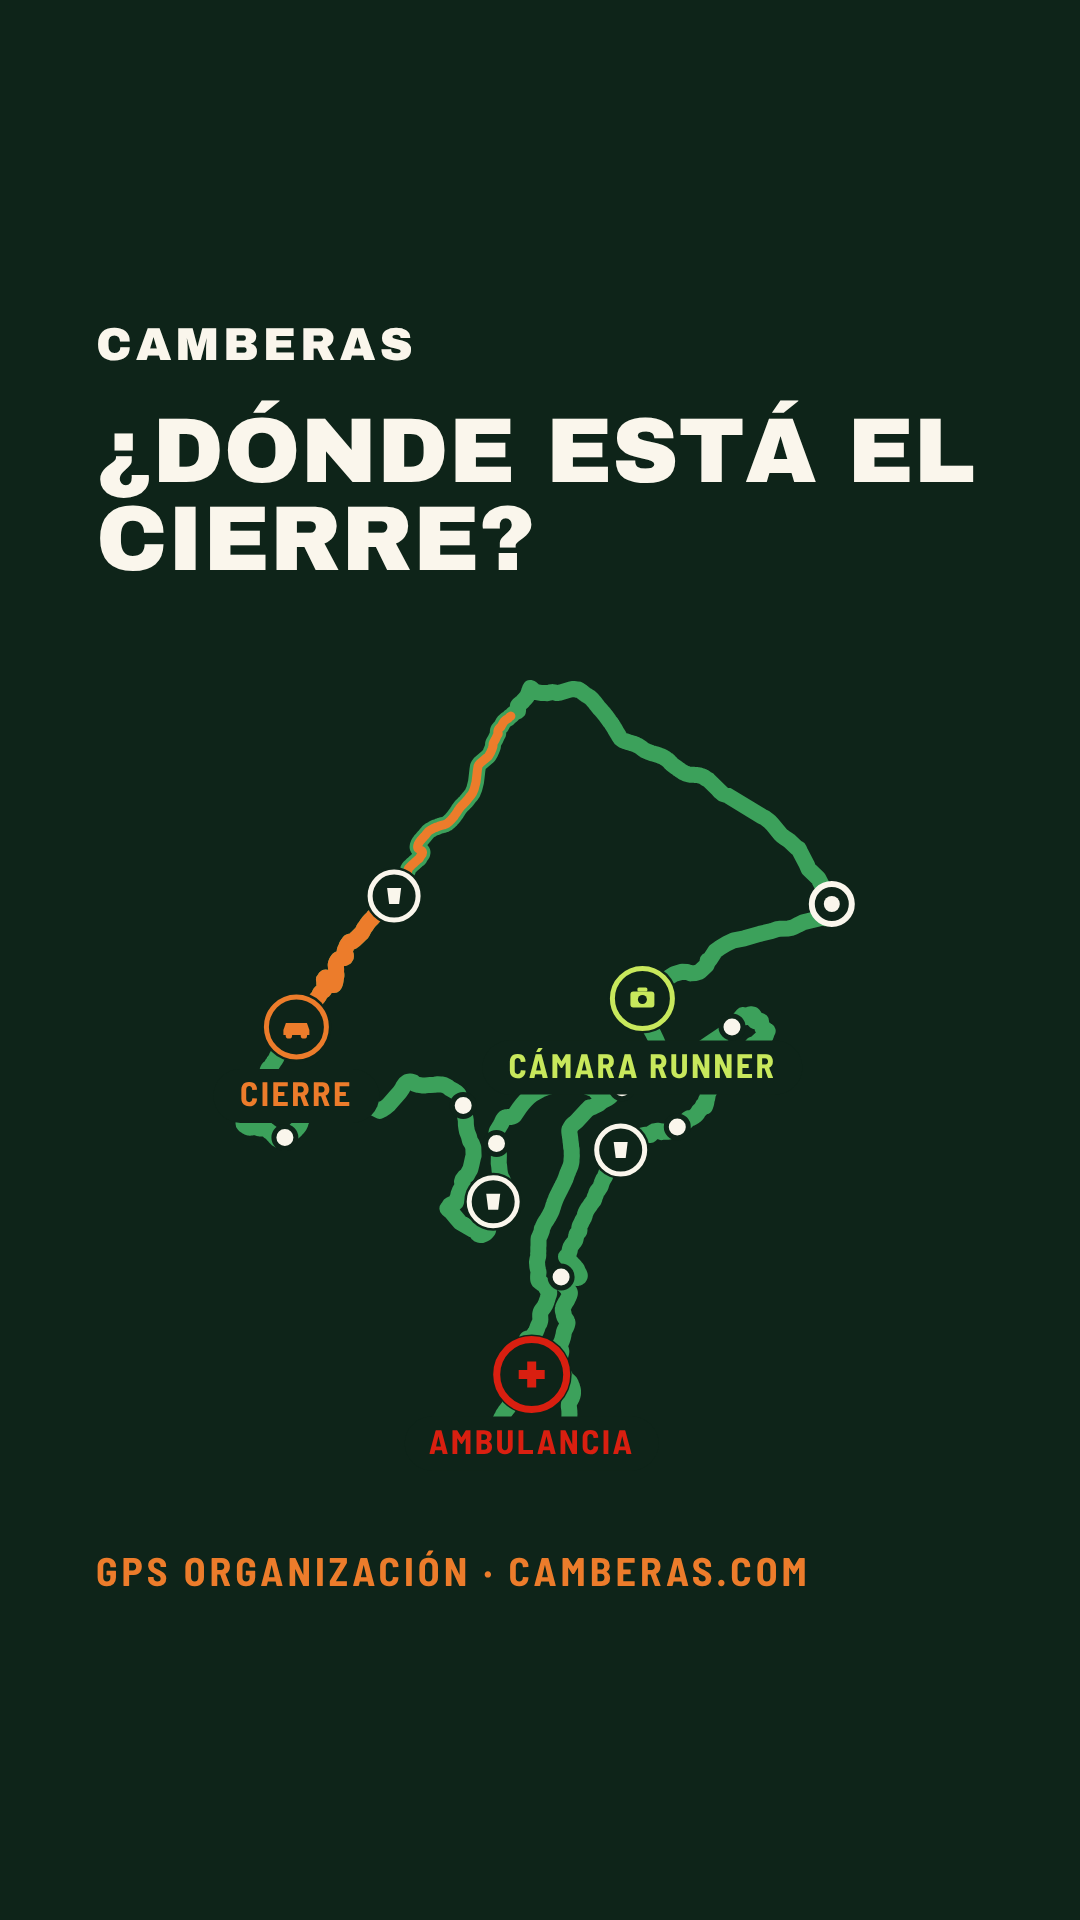
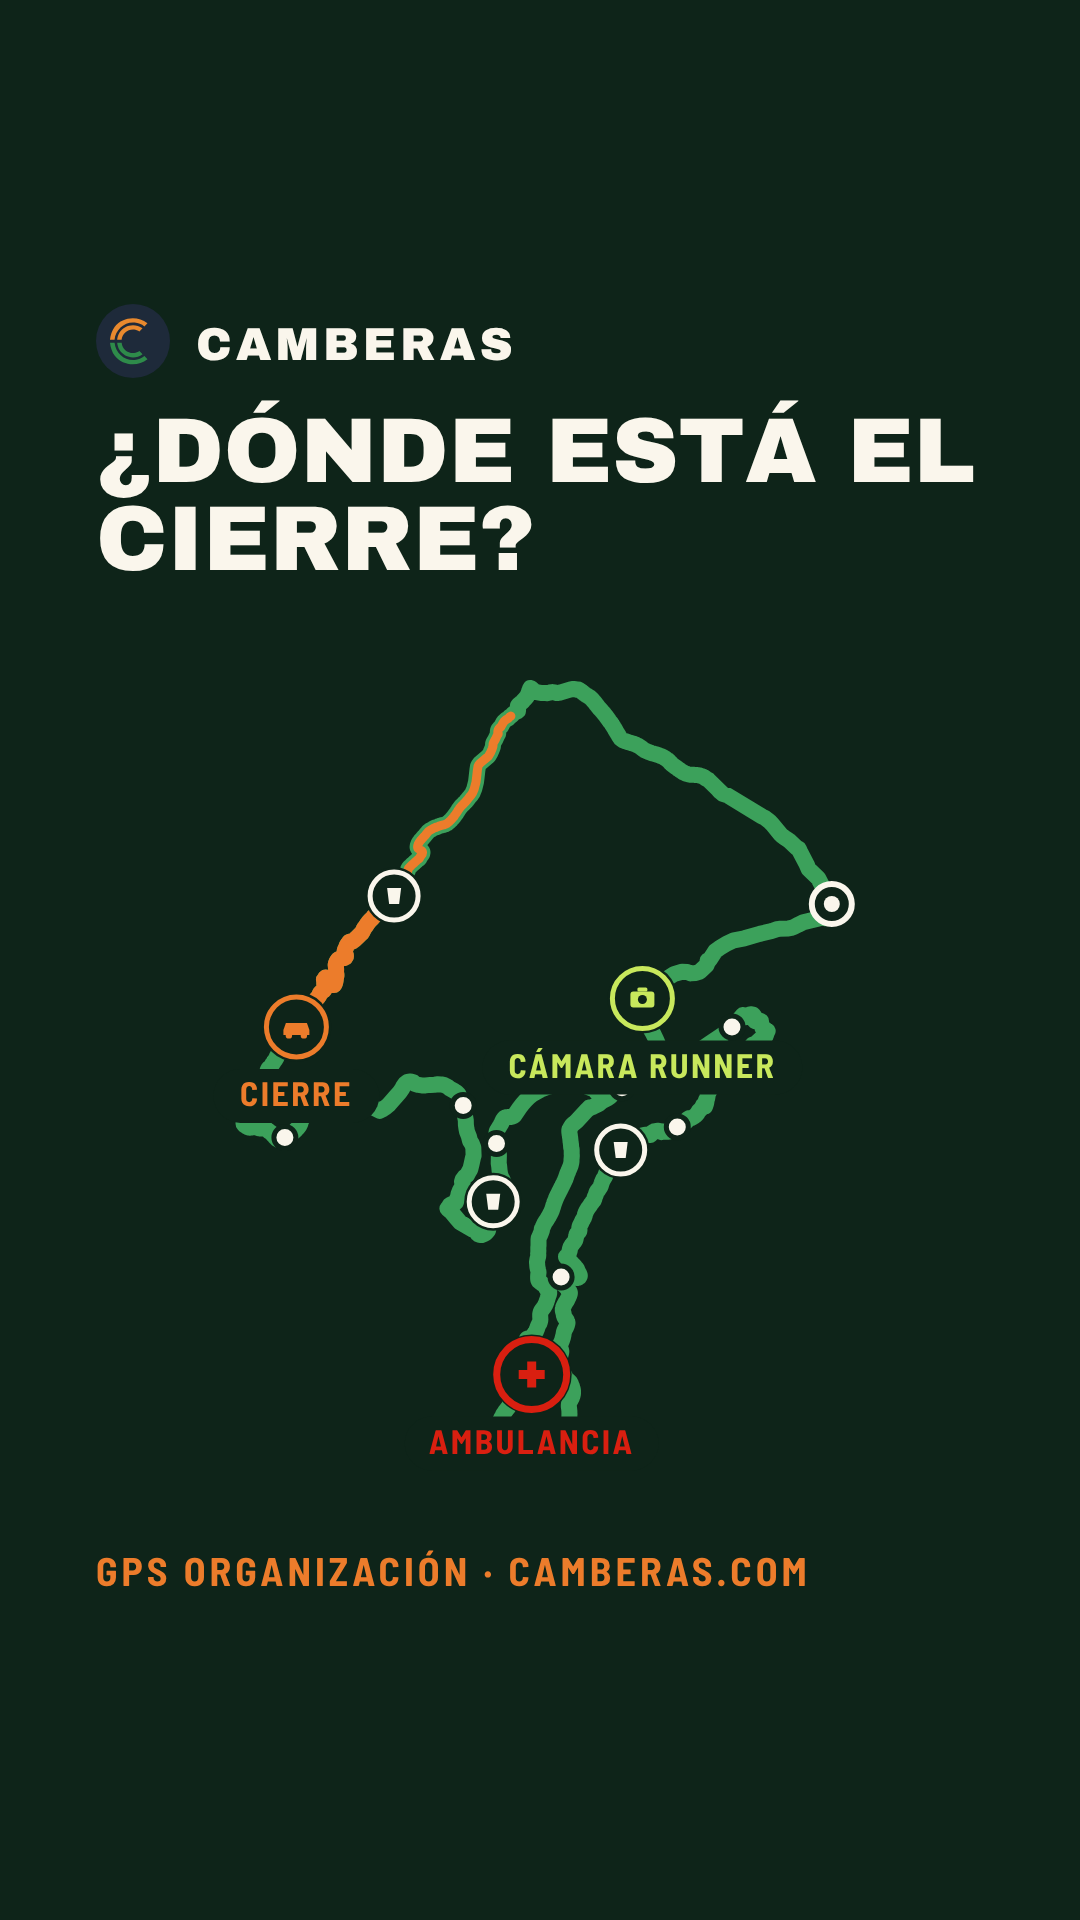
feat(social): un solo reel con las diapositivas y la simulacion dentro
video.mjs admite --sustituir=N:video.mp4, que cambia un slide por un clip.
Asi el reel del cierre es la pieza entera: portada, el problema, el QR, la
simulacion del mapa en el sitio del mapa quieto, y el cierre.

Para encadenarlos hay que igualar las entradas, con fps EL ULTIMO: puesto
antes, el enlace pierde la tasa y xfade se planta con «current rate of 1/0
is invalid». Los PNG en bucle necesitan ademas su -framerate de entrada.

El marco del reel estrena el logo junto a CAMBERAS, leido de la plantilla.

Claude-Session: https://claude.ai/code/session_01UGMKEj7noQJpvPzyxwB7ry

Changed region(s): [[0.0917, 0.1562, 0.4889, 0.2188]]

diff --git a/plantillas/README.md b/plantillas/README.md
@@ -340,6 +340,20 @@ Cada slide se queda el tiempo de leerlo: 2,6 s la portada, 4 s los de
 contenido y 3,4 s el cierre. Un carrusel de 7 sale en unos 24 s, que es
 buena duración de Reel.
 
+`--sustituir=4:simulacion.mp4` cambia ese slide por un vídeo. Es lo que
+permite meter la simulación del mapa dentro del reel, en el sitio del slide
+que llevaba el mapa quieto:
+
+```sh
+node plantillas/herramientas/video.mjs out/corredores/<slug>/story reel.mp4 \
+  --ritmo=1.3 --sustituir=4:out/simulacion-reel.mp4
+```
+
+Todas las entradas se igualan antes de encadenarlas (`settb`, `setpts`,
+`format` y `fps` **el último**, que si no el enlace pierde la tasa y xfade
+se planta con «current rate of 1/0 is invalid»). Los PNG en bucle llevan su
+`-framerate` en la entrada por lo mismo.
+
 `--ritmo=N` estira o encoge todos los tiempos a la vez, fundido incluido.
 Con `1.3` el mismo carrusel de 7 se va a 31 s, que se lee mucho más
 tranquilo; con `0.8` queda más nervioso.
